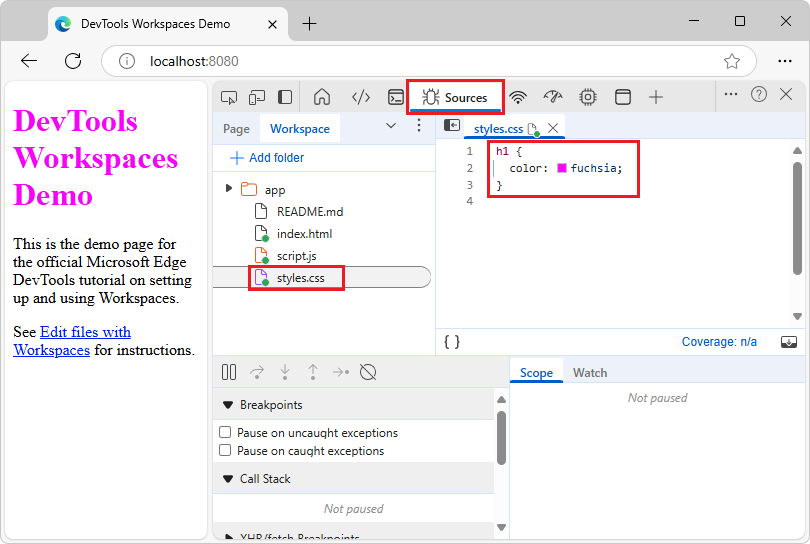
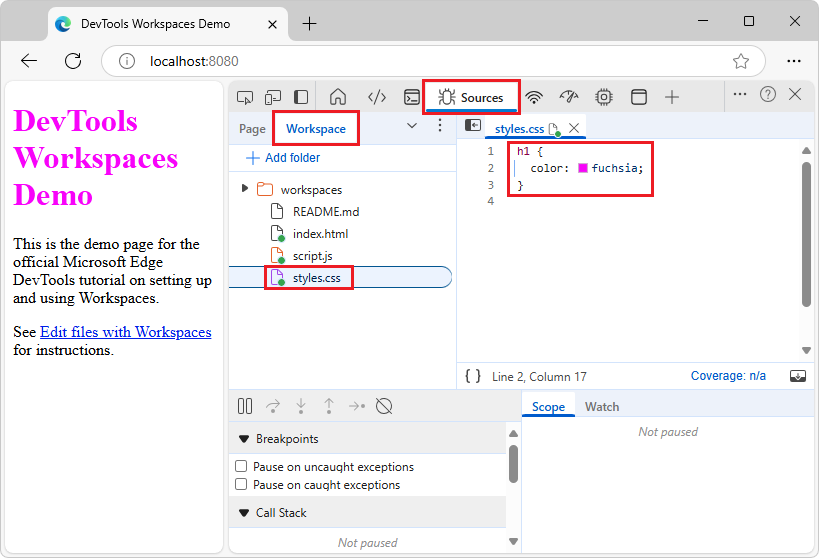
show Elements tool, show /workspaces/ not /app/

diff --git a/microsoft-edge/devtools-guide-chromium/workspaces/index.md b/microsoft-edge/devtools-guide-chromium/workspaces/index.md
@@ -266,7 +266,7 @@ The following steps demonstrate that edits in the DOM tree aren't preserved acro
 
 1. In the DOM tree, in the `<h1>` element, select the text string `DevTools Workspaces Demo`, delete it, type the text string `I Love Cake`, and then press **Enter**.  The rendered webpage shows the new heading text, **I Love Cake**:
 
-   ![Attempting to change HTML from the DOM tree in the Elements tool](./index-images/sources-page-h1.png)
+   ![Attempting to change HTML from the DOM tree in the Elements tool](./index-images/elements-tool-h1.png)
 
 1. Select the **Sources** tool, right-click `index.html`, and then select **Open in containing folder**.
 
@@ -274,7 +274,9 @@ The following steps demonstrate that edits in the DOM tree aren't preserved acro
 
 1. Open the `index.html` file that's in your `/Demos/workspace/` directory in a text editor, such as Visual Studio Code.  The change that you just made doesn't appear; the heading still reads "DevTools Workspaces Demo", instead of "I Love Cake".
 
-1. In the browser, refresh the demo page.  The page reverts to the original heading, "DevTools Workspaces Demo", because the DOM tree with your edit was discarded, and the DOM was re-created from the unchanged `index.html` file that's in your `/Demos/workspace/` directory.
+1. In the browser, refresh the demo page.
+
+   The page reverts to the original heading, "DevTools Workspaces Demo", because the DOM tree with your edit was discarded, and the DOM was re-created from the unchanged `index.html` file that's in your `/Demos/workspace/` directory.
 
 Continue with the next section.
 
@@ -326,7 +328,7 @@ If you want to save a change to the webpage HTML, edit the HTML in the **Sources
 
 1. Refresh the page.  The heading in the rendered page changes to "I Love Cake", because that string was saved in `index.html` in your mapped `/Demos/workspace/` directory:
 
-   ![Change HTML from the Sources tool](./index-images/sources-page-h1.png)
+   ![Change HTML from the Sources tool](./index-images/sources-tool-h1.png)
 
 1. In the **Sources** tool, right-click `index.html`, and then select **Open in containing folder**.
 
